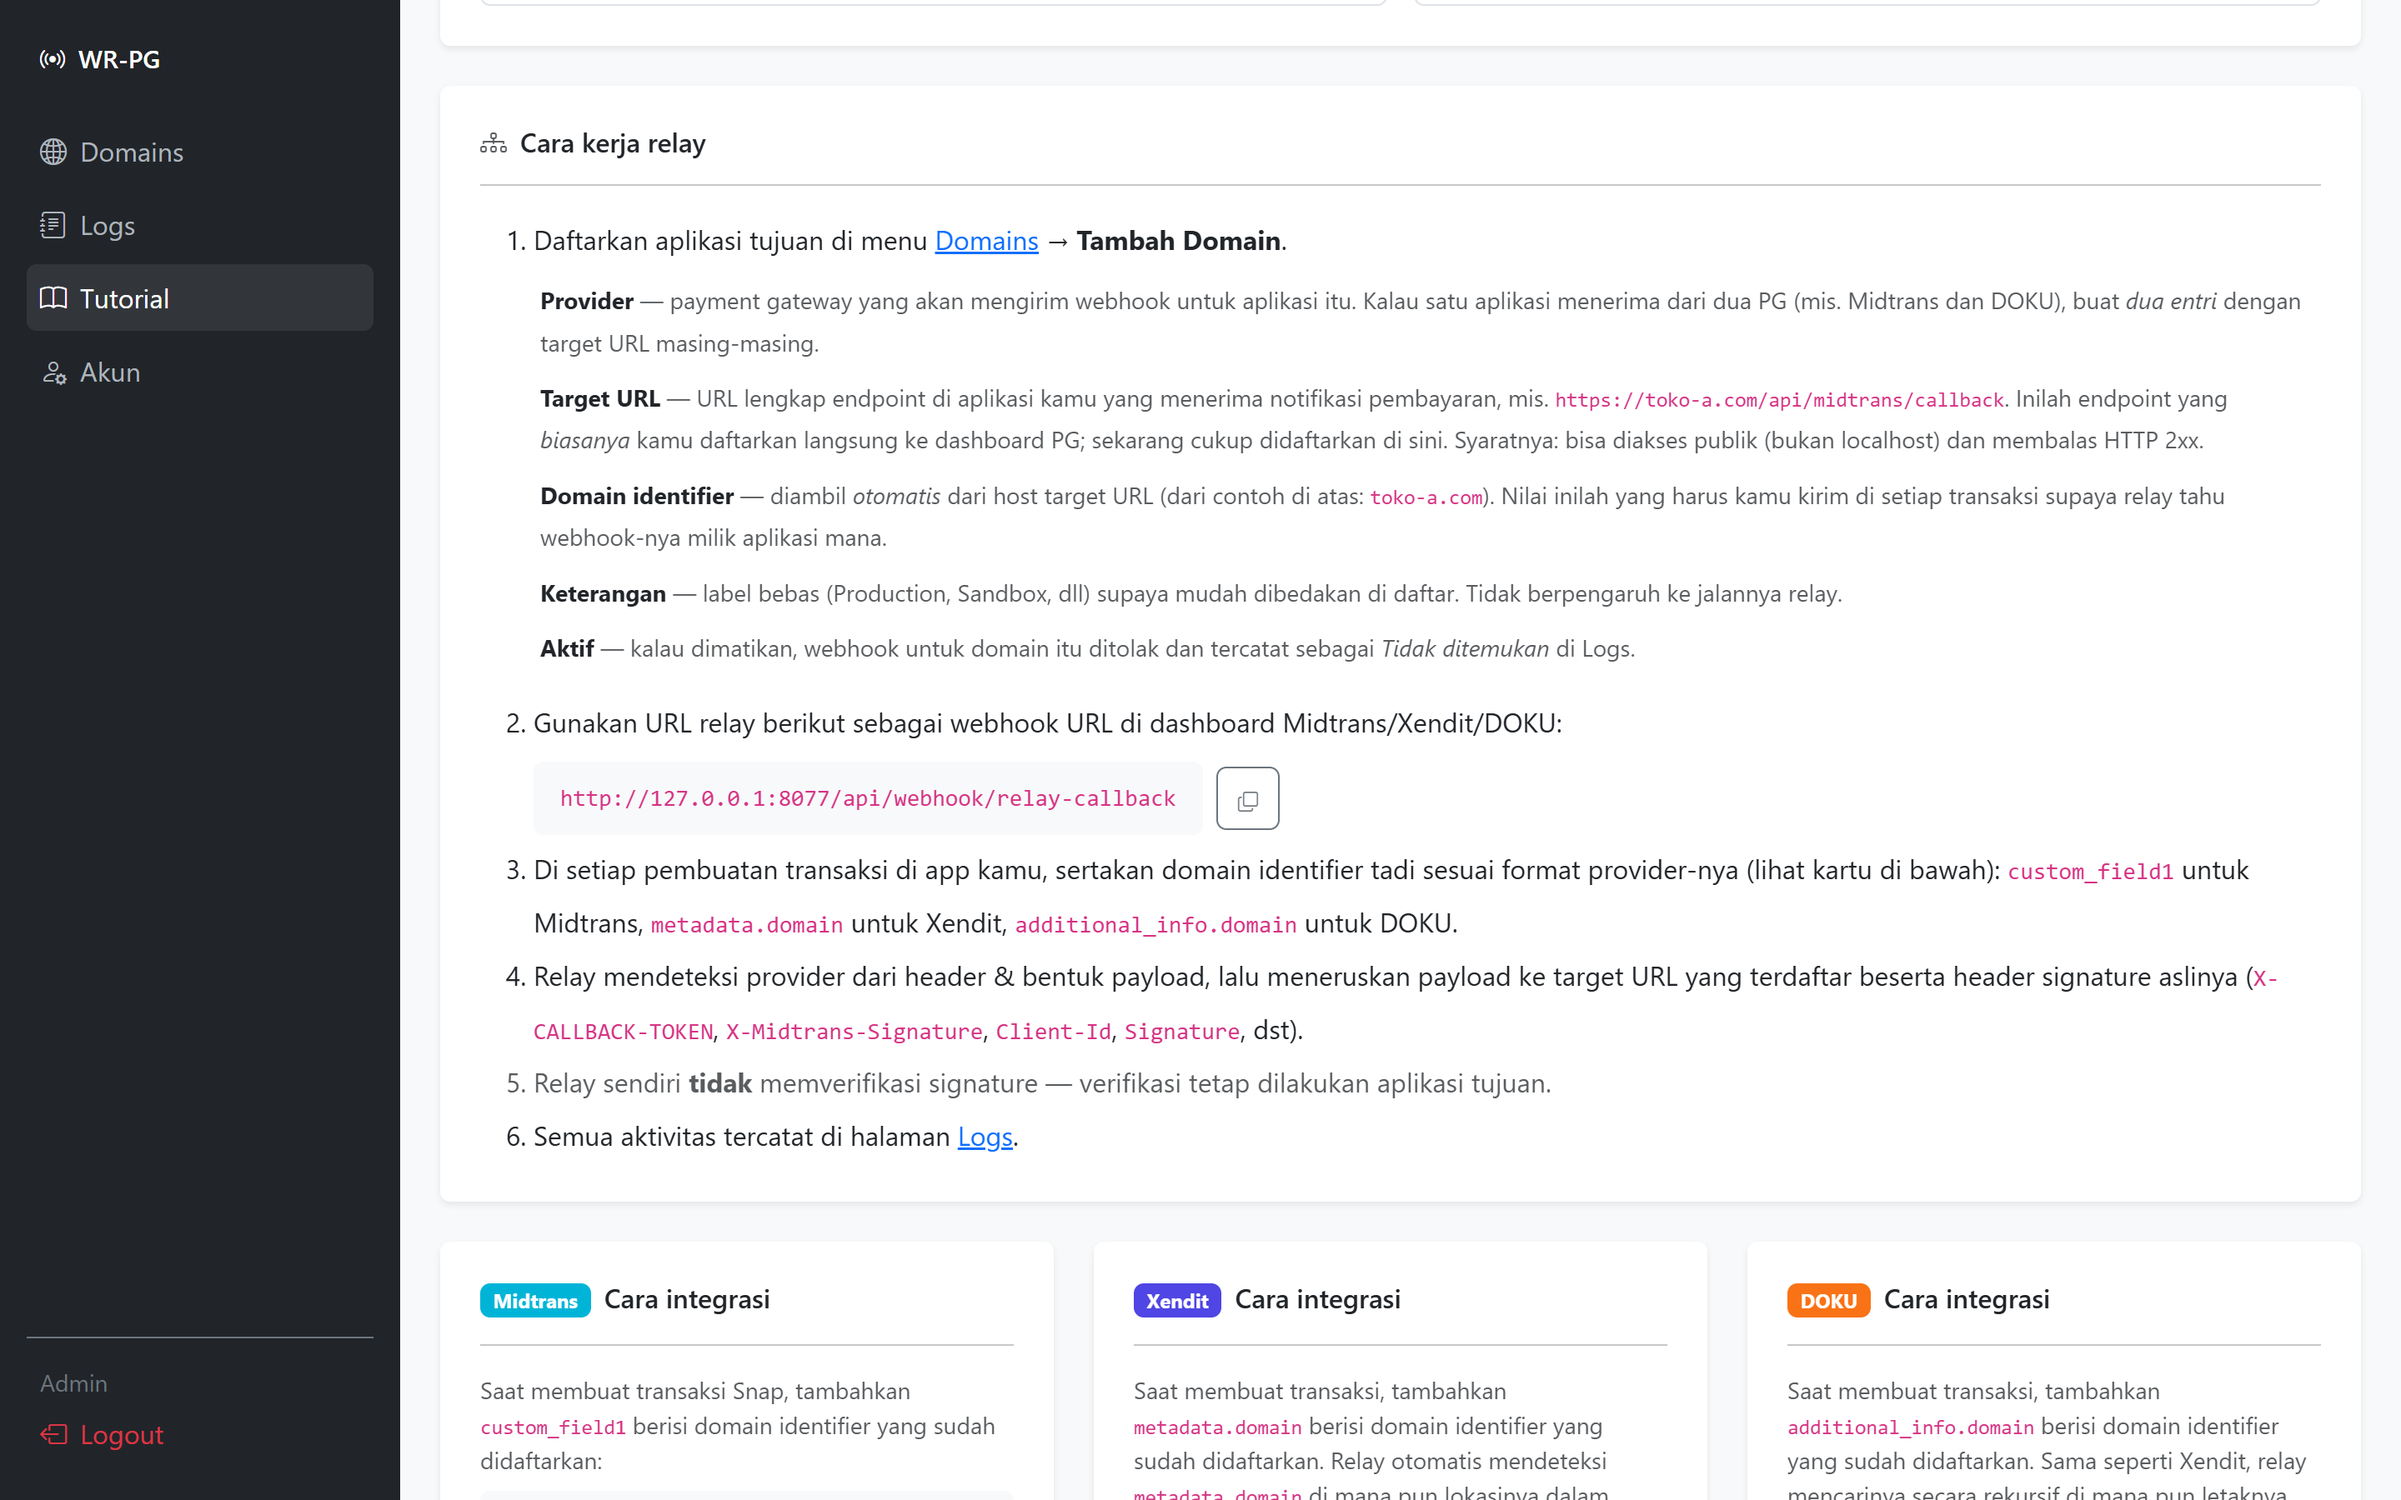
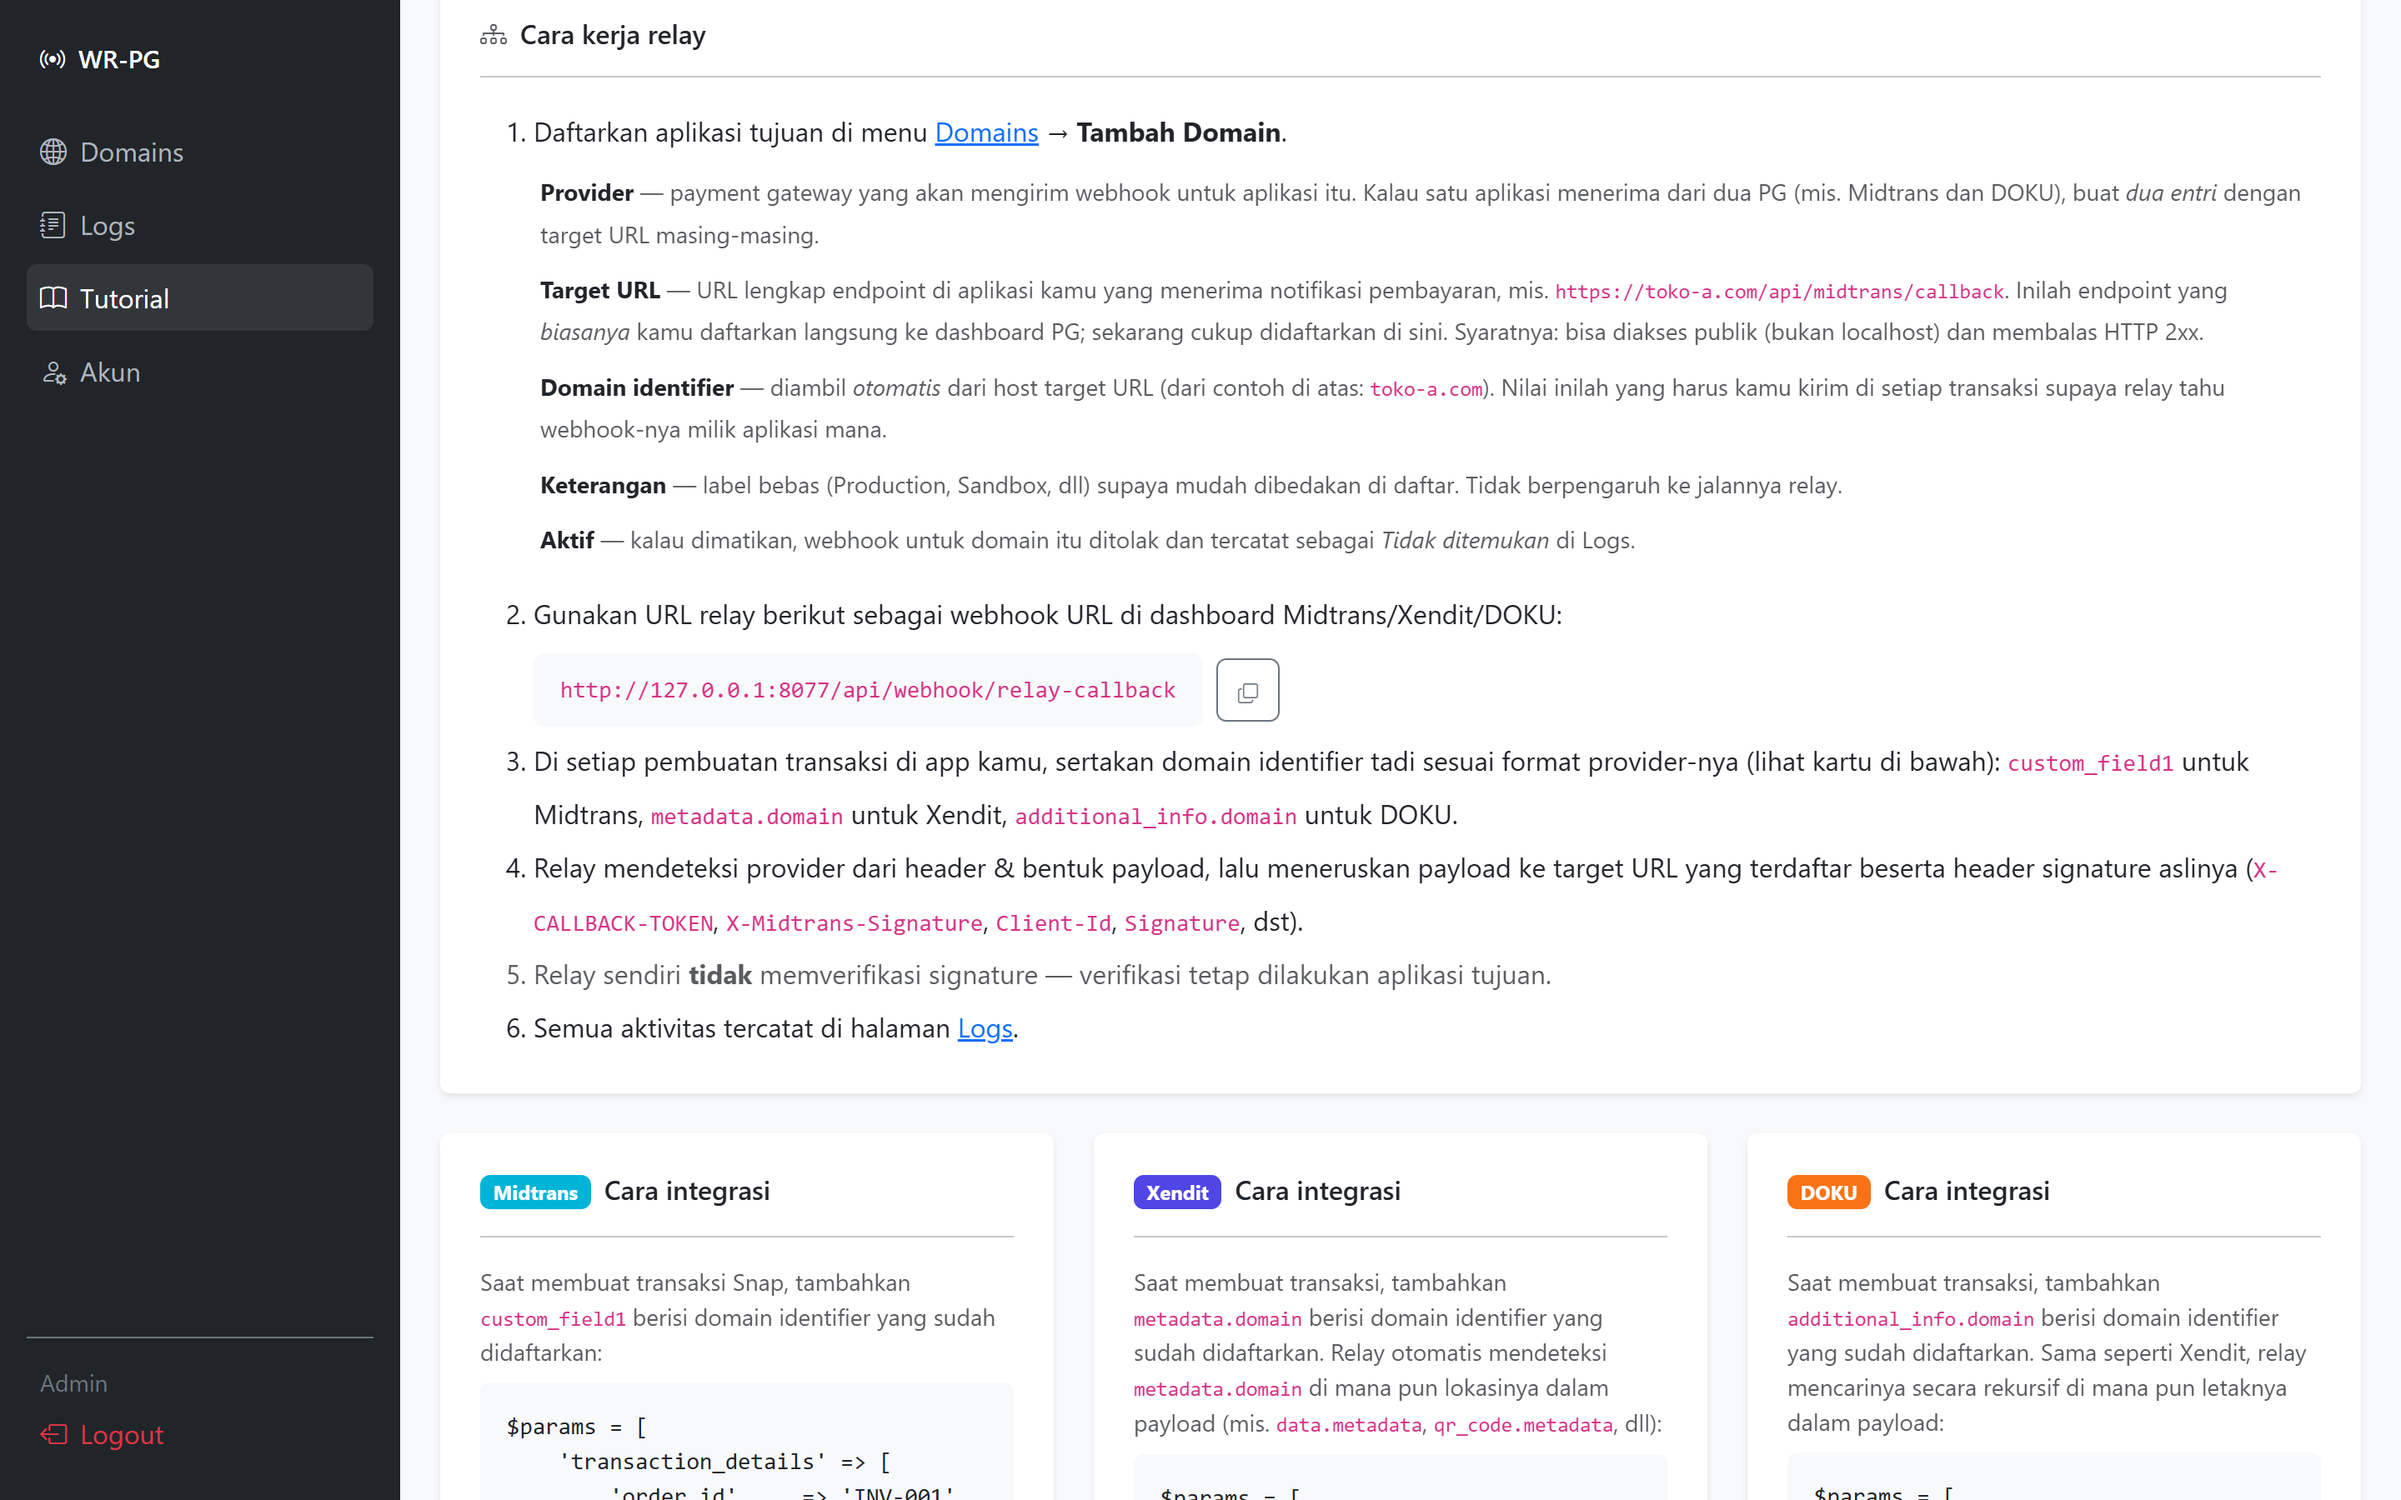
docs: perjelas bahwa alias itu bagian dari nomor invoice
Contoh sebelumnya menyimpan INV-08314 lalu menempelkan alias hanya saat
mengirim ke payment gateway. Itu justru pola yang gagal: relay meneruskan
payload apa adanya, jadi aplikasi menerima nomor yang tidak ada di
databasenya.

Sekarang ditegaskan — nomor invoice dibuat sekali sudah termasuk alias, dan
nilai yang sama persis dipakai di database aplikasi, di payment gateway, dan
di tampilan ke pelanggan. Ditambah blok "Yang jangan dilakukan" yang
menyebutkan pola keliru itu secara eksplisit, serta saran lama "potong 4
karakter terakhir" dihapus karena bertentangan dengan aturan ini.

diff --git a/resources/views/panel/tutorial.blade.php b/resources/views/panel/tutorial.blade.php
@@ -367,18 +367,29 @@
                     produk payment gateway yang <em>tidak</em> mengembalikan metadata di webhook-nya.
                 </p>
 
+                <div class="alert alert-warning small py-2 px-3 mb-3">
+                    <i class="bi bi-exclamation-triangle me-1"></i>
+                    <strong>Kalau memakai cara ini, akhiran <code>-XXX</code> itu bagian dari nomor invoice
+                    kamu — bukan tempelan sesaat.</strong> Nomor invoice dibuat sekali sudah lengkap dengan
+                    aliasnya, lalu nilai yang <em>sama persis</em> dipakai di semua tempat: tersimpan di
+                    database aplikasi, dikirim ke payment gateway, dan tampil ke pelanggan.
+                </div>
+
                 <div class="row g-3">
                     <div class="col-12 col-lg-7">
                         <p class="small mb-2">
                             Setiap domain yang kamu daftarkan otomatis dapat alias <strong>3 karakter kapital</strong>
-                            (bisa dilihat di kolom <em>Alias</em> halaman Domains). Tempelkan di akhir nomor invoice,
-                            dipisah tanda hubung:
+                            (bisa dilihat di kolom <em>Alias</em> halaman Domains). Bentuk nomor invoicenya begini:
                         </p>
-                        <pre class="bg-light rounded p-3 small mb-2" style="overflow-x:auto"><code>// nomor invoice aplikasi kamu
-$invoice = 'INV-08314';
+                        <pre class="bg-light rounded p-3 small mb-2" style="overflow-x:auto"><code>$alias = 'S8K';   // dari kolom Alias di halaman Domains
 
-// yang dikirim ke payment gateway
-$externalId = $invoice . '-S8K';   // &larr; INV-08314-S8K</code></pre>
+// nomor invoice dibuat sekali, sudah termasuk alias
+$invoice = 'INV-08314-' . $alias;   // INV-08314-S8K
+
+// nilai yang sama dipakai di mana pun:
+$order-&gt;invoice_number = $invoice;  // disimpan di database aplikasi
+$params['order']['invoice_number'] = $invoice;  // dikirim ke payment gateway
+// dan ditampilkan apa adanya ke pelanggan</code></pre>
                         <p class="small text-muted mb-0">
                             Relay mengapitalkan nomor invoice lebih dulu, jadi <code>inv-08314-s8k</code> tetap terbaca.
                         </p>
@@ -398,11 +409,16 @@ $externalId = $invoice . '-S8K';   // &larr; INV-08314-S8K</code></pre>
                     </div>
                 </div>
 
-                <div class="alert alert-warning small mb-0 mt-3 py-2 px-3">
-                    <i class="bi bi-exclamation-triangle me-1"></i>
-                    Aplikasi tujuan menerima nomor invoice <strong>lengkap dengan aliasnya</strong>
-                    (<code>INV-08314-S8K</code>), karena relay meneruskan payload apa adanya. Potong 4 karakter
-                    terakhir saat mencocokkan ke database, atau simpan apa adanya — yang penting konsisten.
+                <div class="border rounded p-3 mt-3">
+                    <div class="fw-medium small mb-2">
+                        <i class="bi bi-x-circle text-danger me-1"></i>Yang jangan dilakukan
+                    </div>
+                    <p class="small text-muted mb-0">
+                        Menyimpan <code>INV-08314</code> di database tapi mengirim <code>INV-08314-S8K</code>
+                        ke payment gateway. Relay meneruskan payload apa adanya, jadi aplikasi kamu akan menerima
+                        nomor yang tidak ada di databasenya — dan pencocokan pembayaran gagal. Pilih satu bentuk,
+                        yang sudah termasuk alias, lalu pakai itu di semua tempat.
+                    </p>
                 </div>
             </div>
         </div>

diff --git a/README.md b/README.md
@@ -249,14 +249,23 @@ Sama seperti Xendit, `additional_info.domain` dicari secara **rekursif** — di 
 
 Cara di atas — `custom_field1`, `metadata.domain`, `additional_info.domain` — selalu diutamakan. Alias ini cadangan untuk produk payment gateway yang tidak mengembalikan metadata di payload webhook-nya.
 
-Setiap domain otomatis mendapat alias **3 karakter kapital** saat didaftarkan (terlihat di kolom *Alias* halaman Domains). Tempelkan di akhir nomor invoice, dipisah tanda hubung:
+Setiap domain otomatis mendapat alias **3 karakter kapital** saat didaftarkan (terlihat di kolom *Alias* halaman Domains).
+
+> **Kalau memakai cara ini, akhiran `-XXX` itu bagian dari nomor invoice kamu — bukan tempelan sesaat.** Nomor invoice dibuat sekali sudah lengkap dengan aliasnya, lalu nilai yang **sama persis** dipakai di semua tempat: tersimpan di database aplikasi, dikirim ke payment gateway, dan tampil ke pelanggan.
 
 ```php
-$invoice = 'INV-08314';
+$alias = 'S8K';   // dari kolom Alias di halaman Domains
 
-// yang dikirim ke payment gateway
-$externalId = $invoice . '-S8K';   // → INV-08314-S8K
+// nomor invoice dibuat sekali, sudah termasuk alias
+$invoice = 'INV-08314-' . $alias;   // INV-08314-S8K
+
+// nilai yang sama dipakai di mana pun:
+$order->invoice_number = $invoice;              // database aplikasi
+$params['order']['invoice_number'] = $invoice;  // payment gateway
+// dan ditampilkan apa adanya ke pelanggan
 ```
+
+**Yang jangan dilakukan:** menyimpan `INV-08314` di database tapi mengirim `INV-08314-S8K` ke payment gateway. Relay meneruskan payload apa adanya, jadi aplikasi akan menerima nomor yang tidak ada di databasenya dan pencocokan pembayaran gagal. Pilih satu bentuk — yang sudah termasuk alias — lalu pakai di semua tempat.
 
 Aturan pembacaannya sengaja ketat supaya tidak salah tangkap:
 
@@ -276,8 +285,6 @@ php artisan domains:backfill-alias
 Alias juga terisi sendiri begitu domain tersebut disimpan lewat panel.
 
 > Alias yang **sudah ada tidak pernah diganti** — baik lewat tombol maupun command. Mengacak alias akan membuat invoice yang sudah beredar dengan alias lama tidak dikenali lagi.
-
-> **⚠ Aplikasi tujuan menerima nomor invoice lengkap dengan aliasnya** (`INV-08314-S8K`), karena relay meneruskan payload apa adanya. Potong 4 karakter terakhir saat mencocokkan ke database, atau simpan apa adanya — yang penting konsisten.
 
 ---
 
